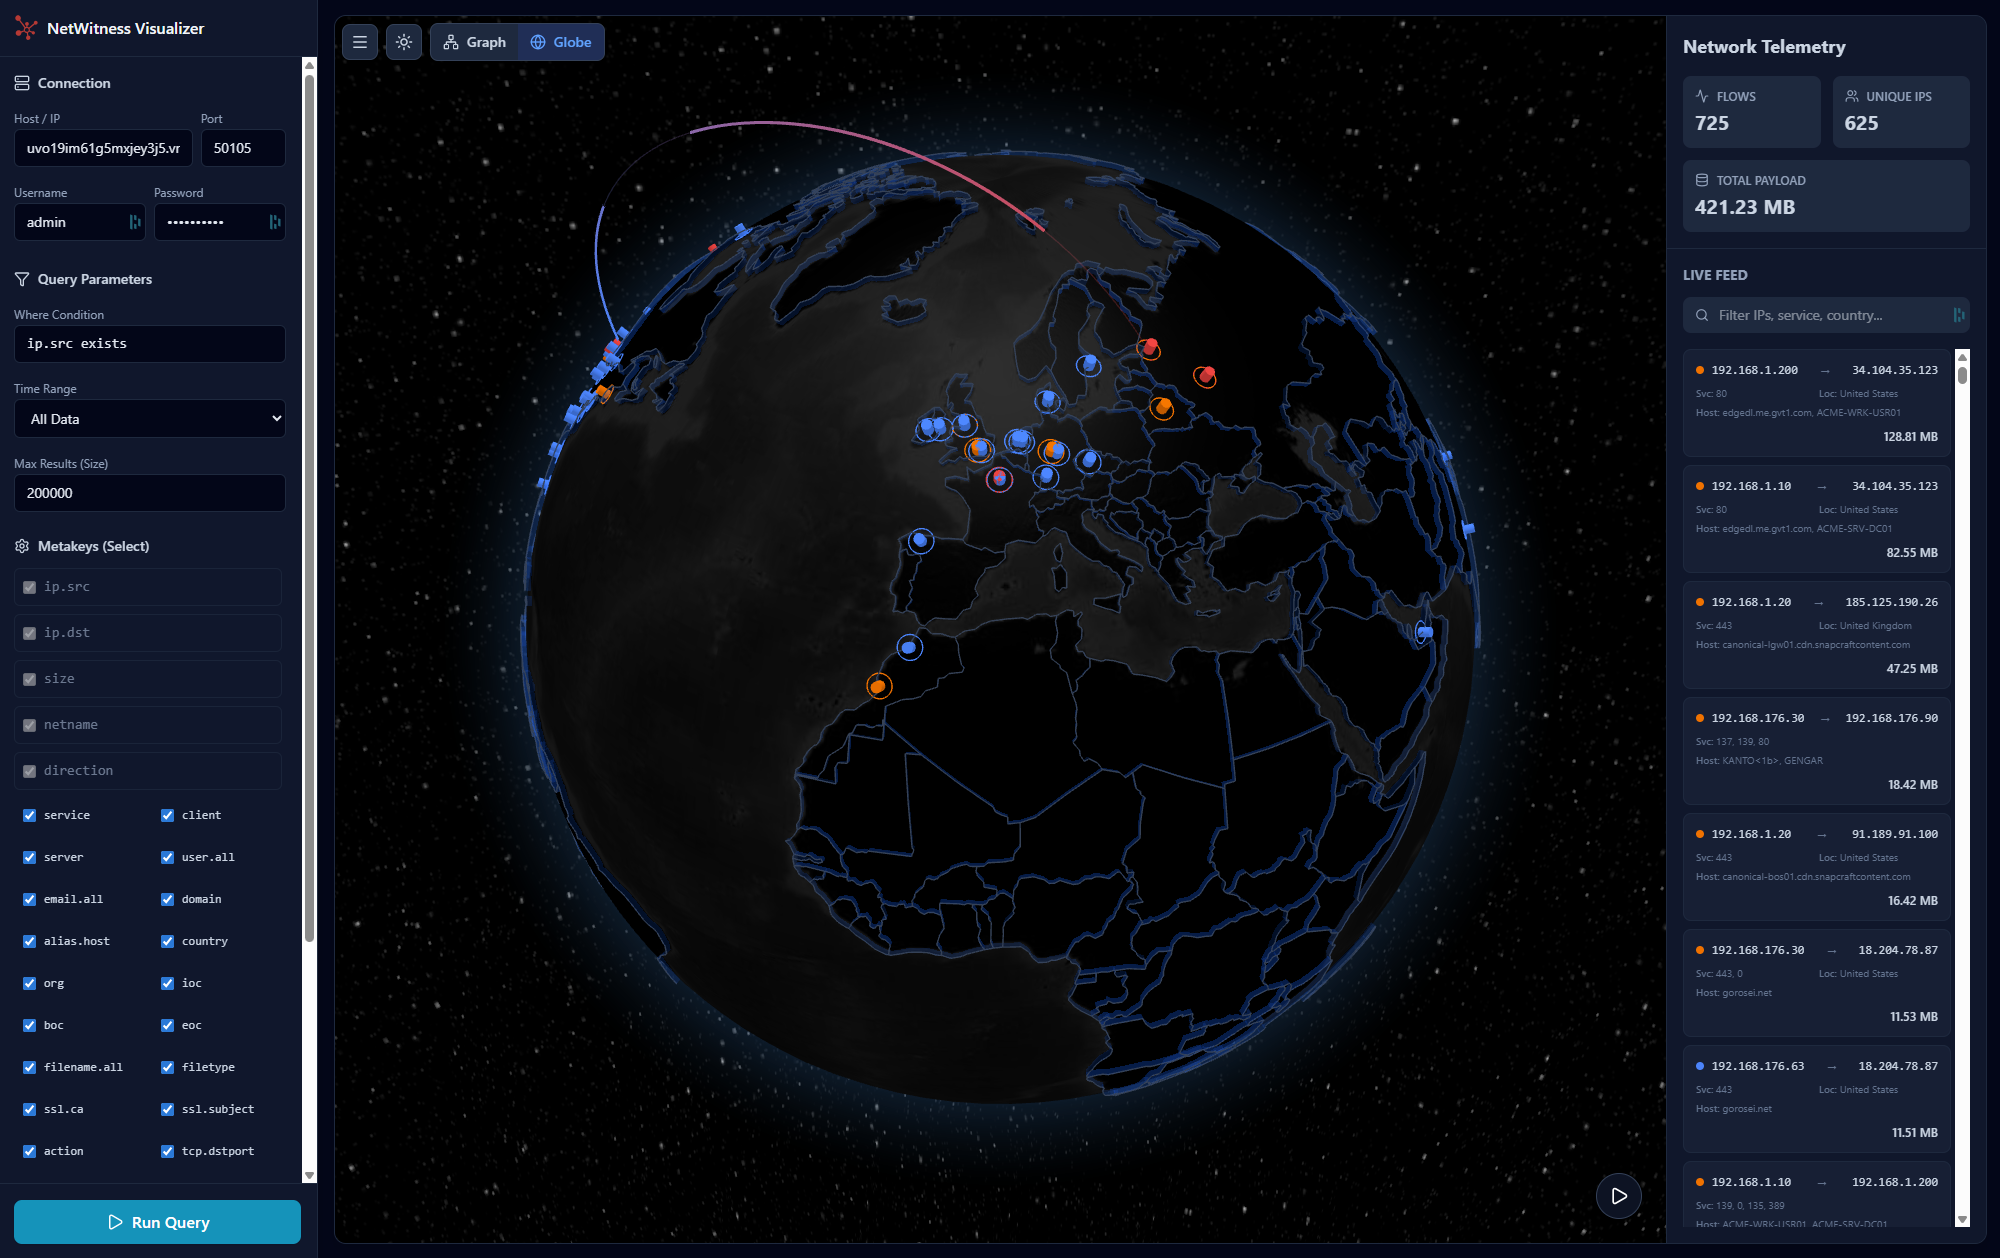
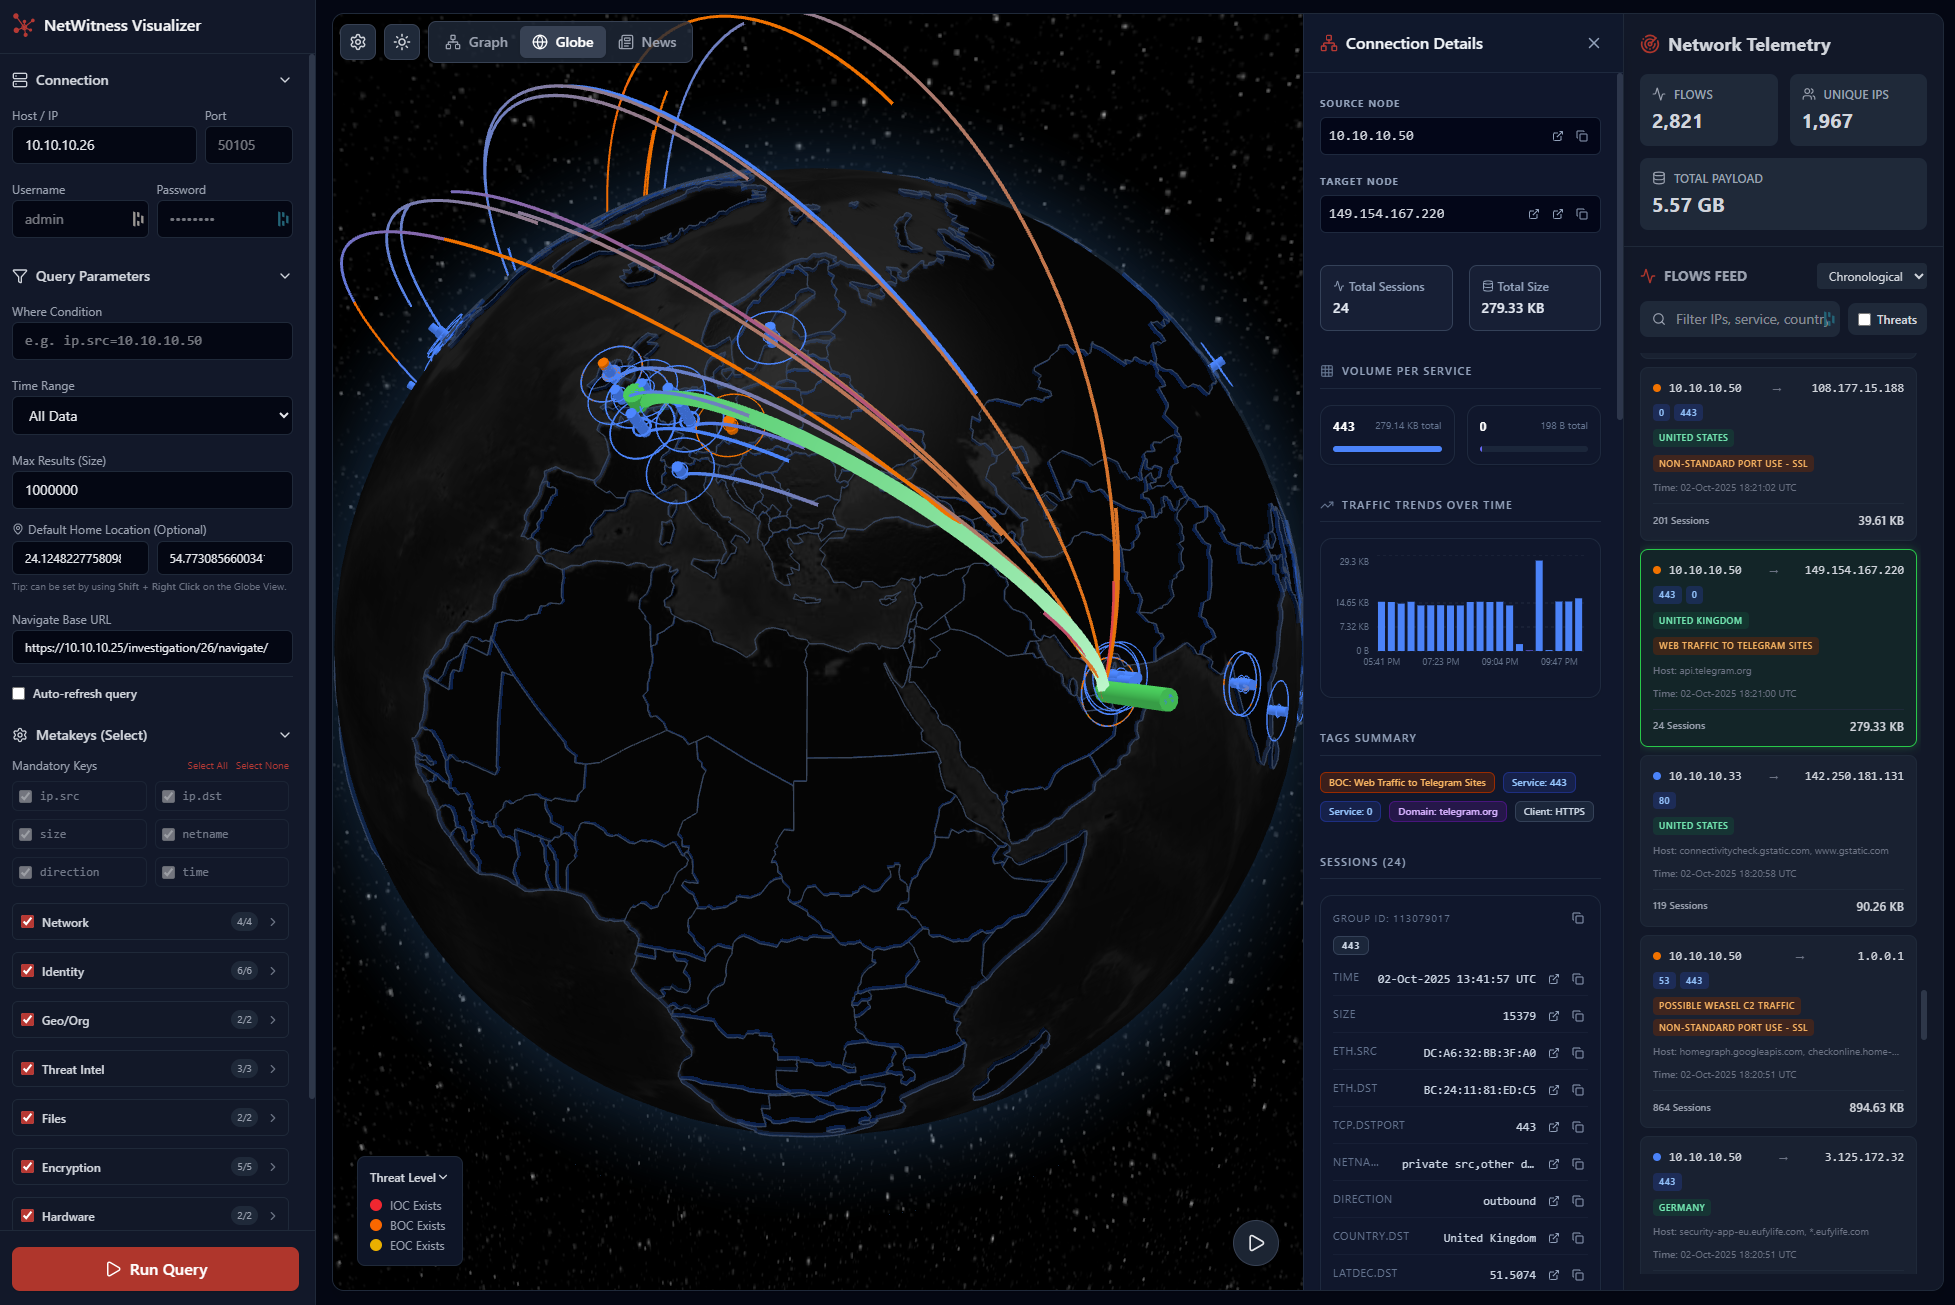
update

diff --git a/netwitness-visualizer/README.md b/netwitness-visualizer/README.md
@@ -1,14 +1,178 @@
-# Run and deploy NetWitness Visualizer
+# NetWitness Visualizer Dashboard
 
-This contains everything you need to run your app locally.
+This is a custom dashboard built to visualize data from NetWitness. The dashboard features five distinct modes: **Globe**, **Graph**, **Assets**, **Alerts**, and **News**, allowing you to explore your queried dataset from multiple perspectives.
 
-## Run Locally
+-----
 
-1. Install dependencies:
-   `sudo apt install nodejs npm`
-2. Move all files to your folder
-3. Install the app:
-   `npm install`
-4. Run the app:
-   `npm run dev`
-5. Access the app by browsing to: http://ip_address:3000
+## 📊 Preview & Features
+
+### Globe Dashboard
+
+This dashboard represents queried data on an interactive 3D globe. Clicking on values from the globe or the right panel expands the view with more details.
+
+**Key Features:**
+
+  * **Home Location:** To visualize connections, set a "Home Location" for internal/private IPs. This can be done by `Shift + Right-Clicking` on the globe, configuring it in the `.env` file, or manually overwriting the Latitude/Longitude in the left panel.
+  * **Animation Control:** Pause or resume the globe animation using the play/pause icon in the bottom right corner.
+  * **Session Visualization:** The height of the pillar displayed on the globe for a given IP is relative to the number of sessions.
+  * **Text Filtering:** Filter sessions dynamically. For example, typing `goo` includes sessions containing "goo", while `!goo` excludes them.
+  * **Threat Focus:** Check the "Threats" box to exclusively show sessions containing an IoC, BoC, or EoC.
+  * **Sorting:** Order sessions chronologically or by size.
+  * **NetWitness Navigate Integration:** Click the icon next to a meta value to jump directly to NetWitness Navigate for that value (requires configuring the "Navigate Base URL").
+  * **Shodan Integration:** Click the icon next to a public IP address to instantly open Shodan for that IP.
+  * **Auto-Refresh:** Enable "Auto-refresh query" from the left panel to pull new data at regular intervals.
+
+### Graph Dashboard
+
+This dashboard represents the queried data in an interactive node diagram, visualizing connections and relationships between different IPs and attributes. Clicking on any value expands a view with additional node details.
+
+**Key Features:**
+
+  * **Dynamic Refocus:** Click on meta values from the right panel to dynamically update and refocus the graph.
+  * **NetWitness Navigate Integration:** Instantly jump to NetWitness Navigate by clicking the icon next to a meta value.
+  * **Customizable Metakeys:** Add or remove metakeys from the graph using the “Legend & Display” box. You can also add custom metakeys not queried by default via the “Custom Metakeys” box.
+  * **Proportional Sizing:** Node size is relative to the number of sessions associated with that meta value.
+  * **Inline Filtering:** Within the “Legend & Display” box, click the filter icon next to any metakey. For example, entering `goo` in the `org` metakey filters for "goo", while `!goo` excludes it.
+  * **Auto-Refresh:** Automatically refresh data at regular intervals via the left panel toggle.
+
+### Assets Dashboard
+
+This dashboard displays information around discovered assets within the queried dataset. It helps visualize attributes, categorizations, and profiling of assets based on the data.
+
+### Alerts Dashboard
+
+This dashboard displays alerts data from the NetWitness Respond service.
+
+**Key Features:**
+
+  * **Alert Timeline:** Clicking an IP address from the "Alert Feed" updates the timeline to show all related alerts in chronological order.
+  * **Deep Dive:** Clicking on an alert (from either the feed or timeline) reveals detailed information about that specific alert.
+
+### News Dashboard
+
+This dashboard provides a news feed from RSS sources (it does not pull data from NetWitness).
+
+**Key Features:**
+
+  * **RSS Management:** Enable, disable, or add custom RSS sources directly from the left side panel. Default sources can be managed by editing the `rss-feeds.json` file.
+  * **Auto-Refresh:** Set custom frequencies for automatic RSS feed refreshes.
+  * **Data Limits:** By default, the feed consumes a maximum of 50 articles per RSS source.
+  * **Advanced Filtering:** Filter articles by country/region (using the dropdown or clicking the globe) or by text (e.g., `goo` to include, `!goo` to exclude).
+
+-----
+
+## ⚙ Installation
+
+The dashboard can be installed directly on an existing NetWitness Server, or on standalone Linux/Windows machines.
+
+### Option 1: Install on NetWitness
+
+Execute the following commands in your NetWitness server terminal:
+
+```bash
+# Install Node.js
+curl -fsSL https://rpm.nodesource.com/setup_22.x | sudo bash -
+dnf install nodejs -y
+
+# Configure Firewall
+edit /etc/sysconfig/iptables 
+# Add this line: -A INPUT -p tcp -m tcp -m multiport --dports 3000 -m comment --comment "netwitness-visualizer" -m conntrack --ctstate NEW -j ACCEPT
+systemctl restart iptables
+
+# Extract and Install
+unzip netwitness-visualizer.zip
+cd netwitness-visualizer
+# Note: Edit the .env file with your environment details before running npm install
+npm install
+npm run dev
+```
+
+Access the app at: `http://<ip_address>:3000`
+
+### Option 2: Install on Linux
+
+```bash
+unzip netwitness-visualizer.zip
+cd netwitness-visualizer
+# Note: Edit the .env file with your environment details
+sudo apt install nodejs npm
+npm install
+npm run dev
+```
+
+Access the app at: `http://<ip_address>:3000`
+
+### Option 3: Install on Windows
+
+1.  Download and install `nvm-setup.exe`.
+2.  Open your terminal or command prompt and run:
+    ```cmd
+    nvm install lts
+    nvm use lts
+    ```
+3.  Unzip `netwitness-visualizer.zip` and navigate to the folder.
+4.  Edit the `.env` file and add your environment details.
+5.  Run the following commands:
+    ```cmd
+    npm install
+    npm run dev
+    ```
+6.  Access the app at: `http://<ip_address>:3000`
+
+-----
+
+## 🛠 Configuration
+
+### Environment Variables (`.env`)
+
+Default settings can be securely managed by editing the `.env` file in the root directory.
+
+| Variable | Description |
+| :--- | :--- |
+| `VITE_NW_HOST` | IP or Hostname of the Concentrator/Broker |
+| `VITE_NW_PORT` | TCP Port (50105 for Concentrators, 50103 for Brokers) |
+| `VITE_NW_USERNAME` | NetWitness Username |
+| `VITE_NW_PASSWORD` | NetWitness Password |
+| `VITE_NW_ALERTS_HOST` | Admin Server's IP or Hostname |
+| `VITE_NW_ALERTS_PORT` | Admin Server Port (Typically `443`) |
+| `VITE_NW_ALERTS_USERNAME` | Admin Server Username |
+| `VITE_NW_ALERTS_PASSWORD` | Admin Server Password |
+| `VITE_NW_HOME_LAT` | Default Latitude for the "Home" private IP location (Globe view) |
+| `VITE_NW_HOME_LNG` | Default Longitude for the "Home" private IP location (Globe view) |
+| `VITE_NW_NAVIGATE_URL` | Base URL for NetWitness Investigate (e.g., `https://192.168.1.111/investigation/6/navigate/`) |
+
+**Enable/Disable Dashboards:**
+Set the following variables to `true` or `false` to toggle specific dashboard views:
+
+  * `VITE_ENABLE_ASSETS`
+  * `VITE_ENABLE_GRAPH`
+  * `VITE_ENABLE_GLOBE`
+  * `VITE_ENABLE_ALERTS`
+  * `VITE_ENABLE_NEWS`
+
+### News Dashboard RSS Feeds
+
+You can permanently change or add RSS sources used by the News dashboard by modifying the `rss-feeds.json` file.
+
+### Integration with NetWitness UI
+
+Specific dashboards can be accessed and parameterized directly via the URL.
+
+**URL Parameter Structure:**
+`http://<dashboard_ip>:3000/?query=ip.all=192.168.1.1&timerange=24h&size=1000&view=globe`
+
+  * `query`: The specific query to execute.
+  * `timerange`: The timeframe to query (e.g., `24h`).
+  * `size`: Maximum number of results to return.
+  * `view`: The target dashboard (`globe`, `graph`, `assets`, `alerts`, or `news`).
+
+**Creating Custom Right-Click Actions in NetWitness:**
+You can use these parameters to create custom context menu actions in the NetWitness UI, allowing you to seamlessly pivot to the visualizer for a specific IP.
+
+1.  In NetWitness, navigate to **Admin \> System \> Context Menu Actions**.
+2.  Create a new action using the following URL format (`{0}` acts as a wildcard for the clicked value):
+    `http://10.10.10.29:3000/?query=ip.all={0}&timerange=24h&size=1000&view=globe`
+3.  Change the `view=` parameter to `graph` or `globe` depending on which visualizer you want to open by default.
+
+-----
+
